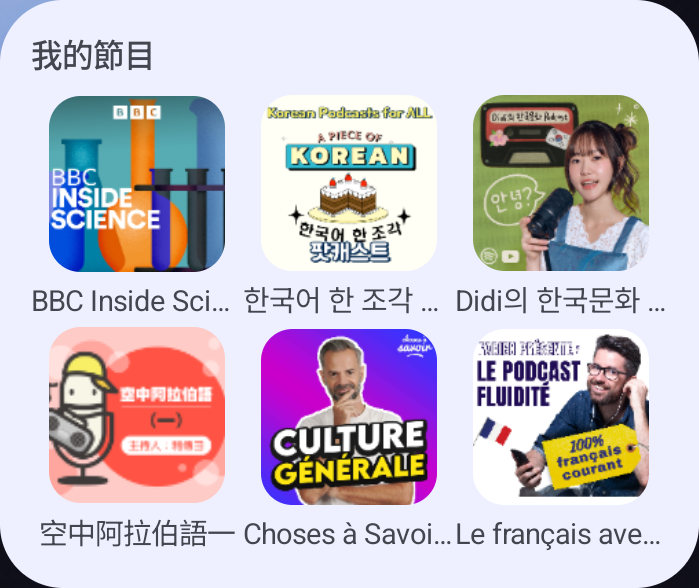
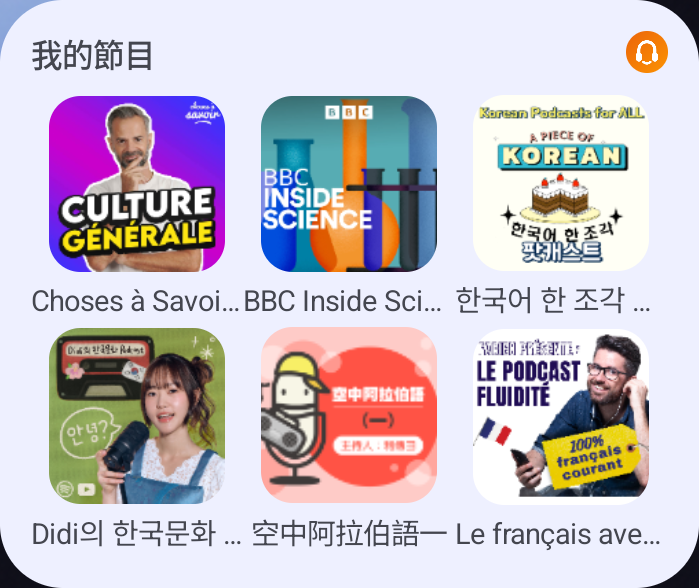
學習紀錄 fits a 2x1 cell; small app badge on every widget
The stats widget only demanded 2x2 because its provider info said so —
the content never needed it. Drop the unconfigurable 30-minute goal bar,
add a compact three-line layout (今日學習 / bold inline minutes / streak,
week total joining when wide enough), and declare targetCellHeight=1 with
minResizeHeight=40dp so 2x1 is the default placement.

WidgetSurface now overlays a 16dp round app icon in the top-end corner of
all four widgets (tap opens the app), so they read as NerLan's at a
glance. Docs widget screenshots refreshed: badged, stats at 2x1, and
最近播放 showing its computed 3 rows.

diff --git a/app/src/main/java/com/example/nerlan/widget/StatsWidget.kt b/app/src/main/java/com/example/nerlan/widget/StatsWidget.kt
@@ -13,6 +13,7 @@ import androidx.glance.appwidget.SizeMode
 import androidx.glance.appwidget.provideContent
 import androidx.glance.layout.Alignment
 import androidx.glance.layout.Column
+import androidx.glance.layout.Row
 import androidx.glance.layout.fillMaxSize
 import androidx.glance.layout.fillMaxWidth
 import androidx.glance.text.FontWeight
@@ -39,38 +40,60 @@ class StatsWidget : GlanceAppWidget() {
         WidgetSurface {
           val size = LocalSize.current
           val innerHeight = size.height.value - 24f
-          val numberSp = when {
-            innerHeight >= 170f -> 56
-            innerHeight >= 120f -> 42
-            else -> 30
-          }
           val stats = model.stats
-          Column(
-            modifier = GlanceModifier.fillMaxSize().clickable(openTabAction("programs")),
-            verticalAlignment = Alignment.CenterVertically,
-          ) {
-            WidgetCaption("今日學習")
-            Text(
-              text = "${stats.minutesToday}",
-              style = TextStyle(
-                color = GlanceTheme.colors.onSurface,
-                fontSize = numberSp.sp,
-                fontWeight = FontWeight.Bold,
-              ),
-            )
-            WidgetCaption("分鐘")
-            ColSpacer(8)
-            // A progress hint against a 30-minute day, not a promise: nothing in
-            // the app lets the goal be configured.
-            WidgetProgressBar(
-              (stats.minutesToday / 30f).coerceIn(0f, 1f),
-              widthDp = (size.width.value - 28f).toInt(),
-              heightDp = if (innerHeight >= 170f) 6 else 4,
-            )
-            ColSpacer(6)
-            Column(modifier = GlanceModifier.fillMaxWidth()) {
-              WidgetCaption("連續 ${stats.streakDays} 天")
-              WidgetCaption("本週 ${formatMinutes(stats.minutesThisWeek)}")
+          if (innerHeight < 100f) {
+            // 2x1: the essentials on three tight lines — today's minutes and the
+            // streak; the week total joins the streak line when the width allows.
+            Column(
+              modifier = GlanceModifier.fillMaxSize().clickable(openTabAction("programs")),
+              verticalAlignment = Alignment.CenterVertically,
+            ) {
+              WidgetCaption("今日學習")
+              Row(verticalAlignment = Alignment.CenterVertically) {
+                Text(
+                  text = "${stats.minutesToday}",
+                  style = TextStyle(
+                    color = GlanceTheme.colors.onSurface,
+                    fontSize = 26.sp,
+                    fontWeight = FontWeight.Bold,
+                  ),
+                )
+                RowSpacer(4)
+                WidgetCaption("分鐘")
+              }
+              WidgetCaption(
+                if (size.width.value >= 200f) {
+                  "連續 ${stats.streakDays} 天 · 本週 ${formatMinutes(stats.minutesThisWeek)}"
+                } else {
+                  "連續 ${stats.streakDays} 天"
+                },
+              )
+            }
+          } else {
+            val numberSp = when {
+              innerHeight >= 170f -> 56
+              innerHeight >= 120f -> 42
+              else -> 30
+            }
+            Column(
+              modifier = GlanceModifier.fillMaxSize().clickable(openTabAction("programs")),
+              verticalAlignment = Alignment.CenterVertically,
+            ) {
+              WidgetCaption("今日學習")
+              Text(
+                text = "${stats.minutesToday}",
+                style = TextStyle(
+                  color = GlanceTheme.colors.onSurface,
+                  fontSize = numberSp.sp,
+                  fontWeight = FontWeight.Bold,
+                ),
+              )
+              WidgetCaption("分鐘")
+              ColSpacer(8)
+              Column(modifier = GlanceModifier.fillMaxWidth()) {
+                WidgetCaption("連續 ${stats.streakDays} 天")
+                WidgetCaption("本週 ${formatMinutes(stats.minutesThisWeek)}")
+              }
             }
           }
         }

diff --git a/docs/guide.html b/docs/guide.html
@@ -230,9 +230,9 @@
       <p>A cover grid of your favorited programs and subscribed podcasts — one tap opens the show. By default it orders by recent listening; edit the widget to hand-pick exactly which shows appear and in what order, and place several copies pinned to different sets.</p>
     </div>
     <div class="widget-card">
-      <img src="images/widget-stats.png" alt="學習紀錄 widget with today's minutes, streak and weekly total" loading="lazy">
+      <img src="images/widget-stats.png" alt="學習紀錄 widget with today's minutes and streak in a 2x1 cell" loading="lazy">
       <h3>學習紀錄</h3>
-      <p>Today's listening minutes against a 30-minute daily goal bar, your 連續 N 天 streak, and this week's total — the numbers merge across devices when Drive sync is on. Tapping it opens the app.</p>
+      <p>Today's listening minutes, your 連續 N 天 streak, and this week's total — compact enough for a 2×1 cell, growing the number as you give it more room. The numbers merge across devices when Drive sync is on; tapping it opens the app.</p>
     </div>
   </div>
 </section>

diff --git a/app/src/main/java/com/example/nerlan/widget/WidgetUi.kt b/app/src/main/java/com/example/nerlan/widget/WidgetUi.kt
@@ -166,7 +166,9 @@ fun WidgetEmptyState(message: String, onClick: Action) {
   }
 }
 
-/** Outer frame every widget shares: rounded surface, uniform padding. */
+/** Outer frame every widget shares: rounded surface, uniform padding, and a
+ *  small app badge in the top-end corner (tapping it opens the app) so the
+ *  widgets are recognizably NerLan's at a glance. */
 @Composable
 fun WidgetSurface(content: @Composable () -> Unit) {
   Box(
@@ -174,8 +176,16 @@ fun WidgetSurface(content: @Composable () -> Unit) {
       .fillMaxSize()
       .background(GlanceTheme.colors.widgetBackground)
       .cornerRadius(16.dp)
-      .padding(12.dp)
-  ) { content() }
+      .padding(12.dp),
+    contentAlignment = Alignment.TopEnd,
+  ) {
+    Box(modifier = GlanceModifier.fillMaxSize()) { content() }
+    Image(
+      provider = ImageProvider(R.mipmap.ic_launcher_round),
+      contentDescription = "NerLan",
+      modifier = GlanceModifier.size(16.dp).clickable(openTabAction("programs")),
+    )
+  }
 }
 
 @Composable

diff --git a/docs/zh-tw/guide.html b/docs/zh-tw/guide.html
@@ -230,9 +230,9 @@
       <p>收藏節目與訂閱 Podcast 的封面牆，一按就打開節目。預設依最近收聽排序；編輯小工具可自選要顯示哪些節目與順序，還能放多個小工具、各釘選不同組合。</p>
     </div>
     <div class="widget-card">
-      <img src="../images/widget-stats.png" alt="學習紀錄小工具：今日分鐘數、連續天數與本週總計" loading="lazy">
+      <img src="../images/widget-stats.png" alt="學習紀錄小工具：2x1 格顯示今日分鐘數與連續天數" loading="lazy">
       <h3>學習紀錄</h3>
-      <p>今日學習分鐘數與每日 30 分鐘目標條、連續 N 天，以及本週總計——開啟雲端同步後，數字會跨裝置合併。點擊開啟 App。</p>
+      <p>今日學習分鐘數、連續 N 天與本週總計——最小 2×1 就放得下，空間越大數字越大。開啟雲端同步後，數字會跨裝置合併。點擊開啟 App。</p>
     </div>
   </div>
 </section>
